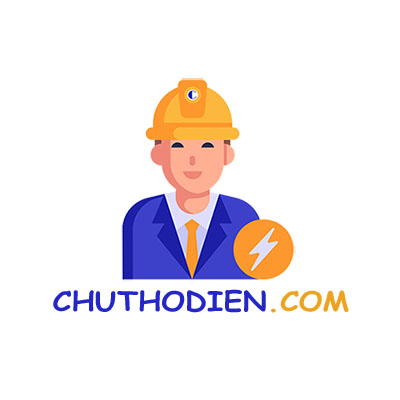
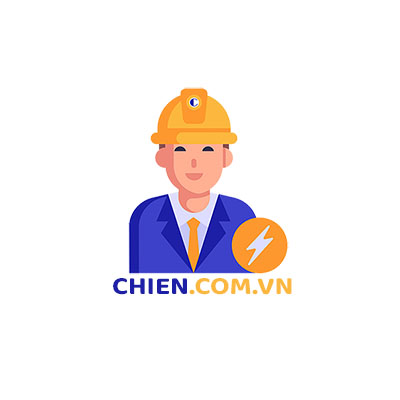
up

Changed region(s): [[0.12, 0.18, 0.87, 0.78]]

diff --git a/index.html b/index.html
@@ -29,7 +29,7 @@
     <link href="https://cdn.jsdelivr.net/npm/bootstrap@5.2.0/dist/css/bootstrap.min.css" rel="stylesheet"/>
 
     <!-- Template Stylesheet -->
-    <link href="https://chuthodien.com/css/main.css" rel="stylesheet"/>
+    <link href="https://chien.com.vn/css/main.css" rel="stylesheet"/>
 	<style>
 		/*
 		//////////////////////////////////////////////////////////////////////////////////////////////////////////////////////////////////////
@@ -48,7 +48,7 @@
 		////////////////////////																				   				//////////////
 		//////////////////////////////////////////////////////////////////////////////////////////////////////////////////////////////////////
 		//////////////////////////////////////////////////////////////////////////////////////////////////////////////////////////////////////
-		///////////////////////    CSS for Chuthodien.com								//////////////////////////////////////////////////////
+		///////////////////////    CSS for chien.com.vn								//////////////////////////////////////////////////////
 		///////////////////////    Design by @Mchien477									//////////////////////////////////////////////////////
 		///////////////////////    Thanks for Blogger, Github							//////////////////////////////////////////////////////
 		///////////////////////    We Using Boostraps - HTML5 - CSS3 - Javacript 		//////////////////////////////////////////////////////
@@ -73,16 +73,16 @@
         <div class="row gx-0 align-items-center d-none d-lg-flex">
             <div class="col-lg-6 px-5 text-start">
                 <ol class="breadcrumb mb-0">
-                    <li class="breadcrumb-item"><a class="small text-secondary" href="#">Chính sách bán hàng</a></li>
-                    <li class="breadcrumb-item"><a class="small text-secondary" href="#">Chính sách bảo hành</a></li>
-                    <li class="breadcrumb-item"><a class="small text-secondary" href="#">Thanh toán</a></li>
-                    <li class="breadcrumb-item"><a class="small text-secondary" href="#">Quyền riêng tư</a></li>
+                    <li class="breadcrumb-item"><a class="small text-secondary" href="/ban-hang.html">Chính sách bán hàng</a></li>
+                    <li class="breadcrumb-item"><a class="small text-secondary" href="/bao-hanh.html">Chính sách bảo hành</a></li>
+                    <li class="breadcrumb-item"><a class="small text-secondary" href="/thanh-toan.html">Thanh toán</a></li>
+                    <li class="breadcrumb-item"><a class="small text-secondary" href="/quyeng-rieng-tu.html">Quyền riêng tư</a></li>
                 </ol>
             </div>
             <div class="col-lg-6 px-5 text-end">
                 <small>Mạng xã hội: </small>
                 <div class="h-100 d-inline-flex align-items-center">
-                    <a class="btn-square text-primary border-end rounded-0" href="https://www.facebook.com/chuthodiendotcom"><i class="fab fa-facebook-f"></i></a>
+                    <a class="btn-square text-primary border-end rounded-0" href="https://www.facebook.com/ChienStoreIT"><i class="fab fa-facebook-f"></i></a>
                 </div>
             </div>
         </div>
@@ -144,7 +144,7 @@
 
     <!-- Navbar Start -->
     <nav class="navbar navbar-expand-lg bg-primary navbar-dark sticky-top py-lg-0 px-lg-5 wow fadeIn" data-wow-delay="0.1s">
-        <a href="/" class="navbar-brand ms-3 d-lg-none"><span class="text-primary">Chuthodien</span><span class="text-warning">.com</span></a>
+        <a href="/" class="navbar-brand ms-3 d-lg-none"><span class="text-primary">chien</span><span class="text-warning">.com.vn</span></a>
         <button type="button" class="navbar-toggler me-3" data-bs-toggle="collapse" data-bs-target="#navbarCollapse">
             <span class="navbar-toggler-icon"></span>
         </button>
@@ -165,7 +165,7 @@
                 </div>
                 <a href="contact.html" class="nav-item nav-link">Liên hệ</a>
             </div>
-            <a href="https://blog.chuthodien.com/" target="_blank" class="btn btn-sm btn-light rounded-pill py-2 px-4 d-none d-lg-block">Trang Blog</a>
+            <a href="https://blog.chien.com.vn/" target="_blank" class="btn btn-sm btn-light rounded-pill py-2 px-4 d-none d-lg-block">Trang Blog</a>
         </div>
     </nav>
     <!-- Navbar End -->
@@ -242,7 +242,7 @@
                         <h6 class="section-title bg-white text-start text-primary pe-3">Về chúng tôi</h6>
                         <h1 class="display-6 mb-4">Một cửa hàng <span class="text-primary">công nghệ</span></h1>
                         <p></p>
-                        <p class="mb-4"><span class="text-primary">Chuthodien</span><span class="text-warning">.com</span> chuyên cung cấp giải pháp và thi công những dự án camera an ninh, nhà thông minh, điều khiển tự động hóa,...</p>
+                        <p class="mb-4"><span class="text-primary">chien</span><span class="text-warning">.com.vn</span> chuyên cung cấp giải pháp và thi công những dự án camera an ninh, nhà thông minh, điều khiển tự động hóa,...</p>
                         <div class="d-flex align-items-center mb-4 pb-2">
                             <img class="flex-shrink-0 rounded-circle" src="img/index/founder.jpg" alt="" style="width: 50px; height: 50px;">
                             <div class="ps-4">
@@ -316,7 +316,7 @@
                 <div class="col-lg-6 wow fadeInUp" data-wow-delay="0.1s">
                     <div class="h-100">
                         <h6 class="section-title bg-white text-start text-primary pe-3">Tại Sao Chọn Chúng Tôi?</h6>
-                        <h1 class="display-6 mb-4"> <i>"Simple Plans"</i> <span class="text-primary">Chuthodien</span><span class="text-warning">.com</span></h1>
+                        <h1 class="display-6 mb-4"> <i>"Simple Plans"</i> <span class="text-primary">chien</span><span class="text-warning">.com.vn</span></h1>
                         <p class="mb-4"></p>
                         <div class="row g-4">
                             <div class="col-12">
@@ -543,11 +543,10 @@
             <div class="container">
                 <div class="row">
                     <div class="col-md-6 text-center text-md-start mb-3 mb-md-0">
-                        &copy; <a href="#"><span class="text-primary">Chuthodien</span><span class="text-warning">.com</span></a> 2021, giữ bản quyền toàn bộ nội dung website.
+                        &copy; <a href="#"><span class="text-primary">chien</span><span class="text-warning">.com.vn</span></a> 2021, giữ bản quyền toàn bộ nội dung website.
                     </div>
                     <div class="col-md-6 text-center text-md-end">
-                        <!--/*** This template is free as long as you keep the footer author’s credit link/attribution link/backlink. If you'd like to use the template without the footer author’s credit link/attribution link/backlink, you can purchase the Credit Removal License from "https://htmlcodex.com/credit-removal". Thank you for your support. ***/-->
-                        Thiết kế bởi <a href="https://me.chien.link">mchien477</a>
+                        Thiết kế bởi <a href="https://me.chien.com.vn">mchien477</a>
                     </div>
                 </div>
             </div>
